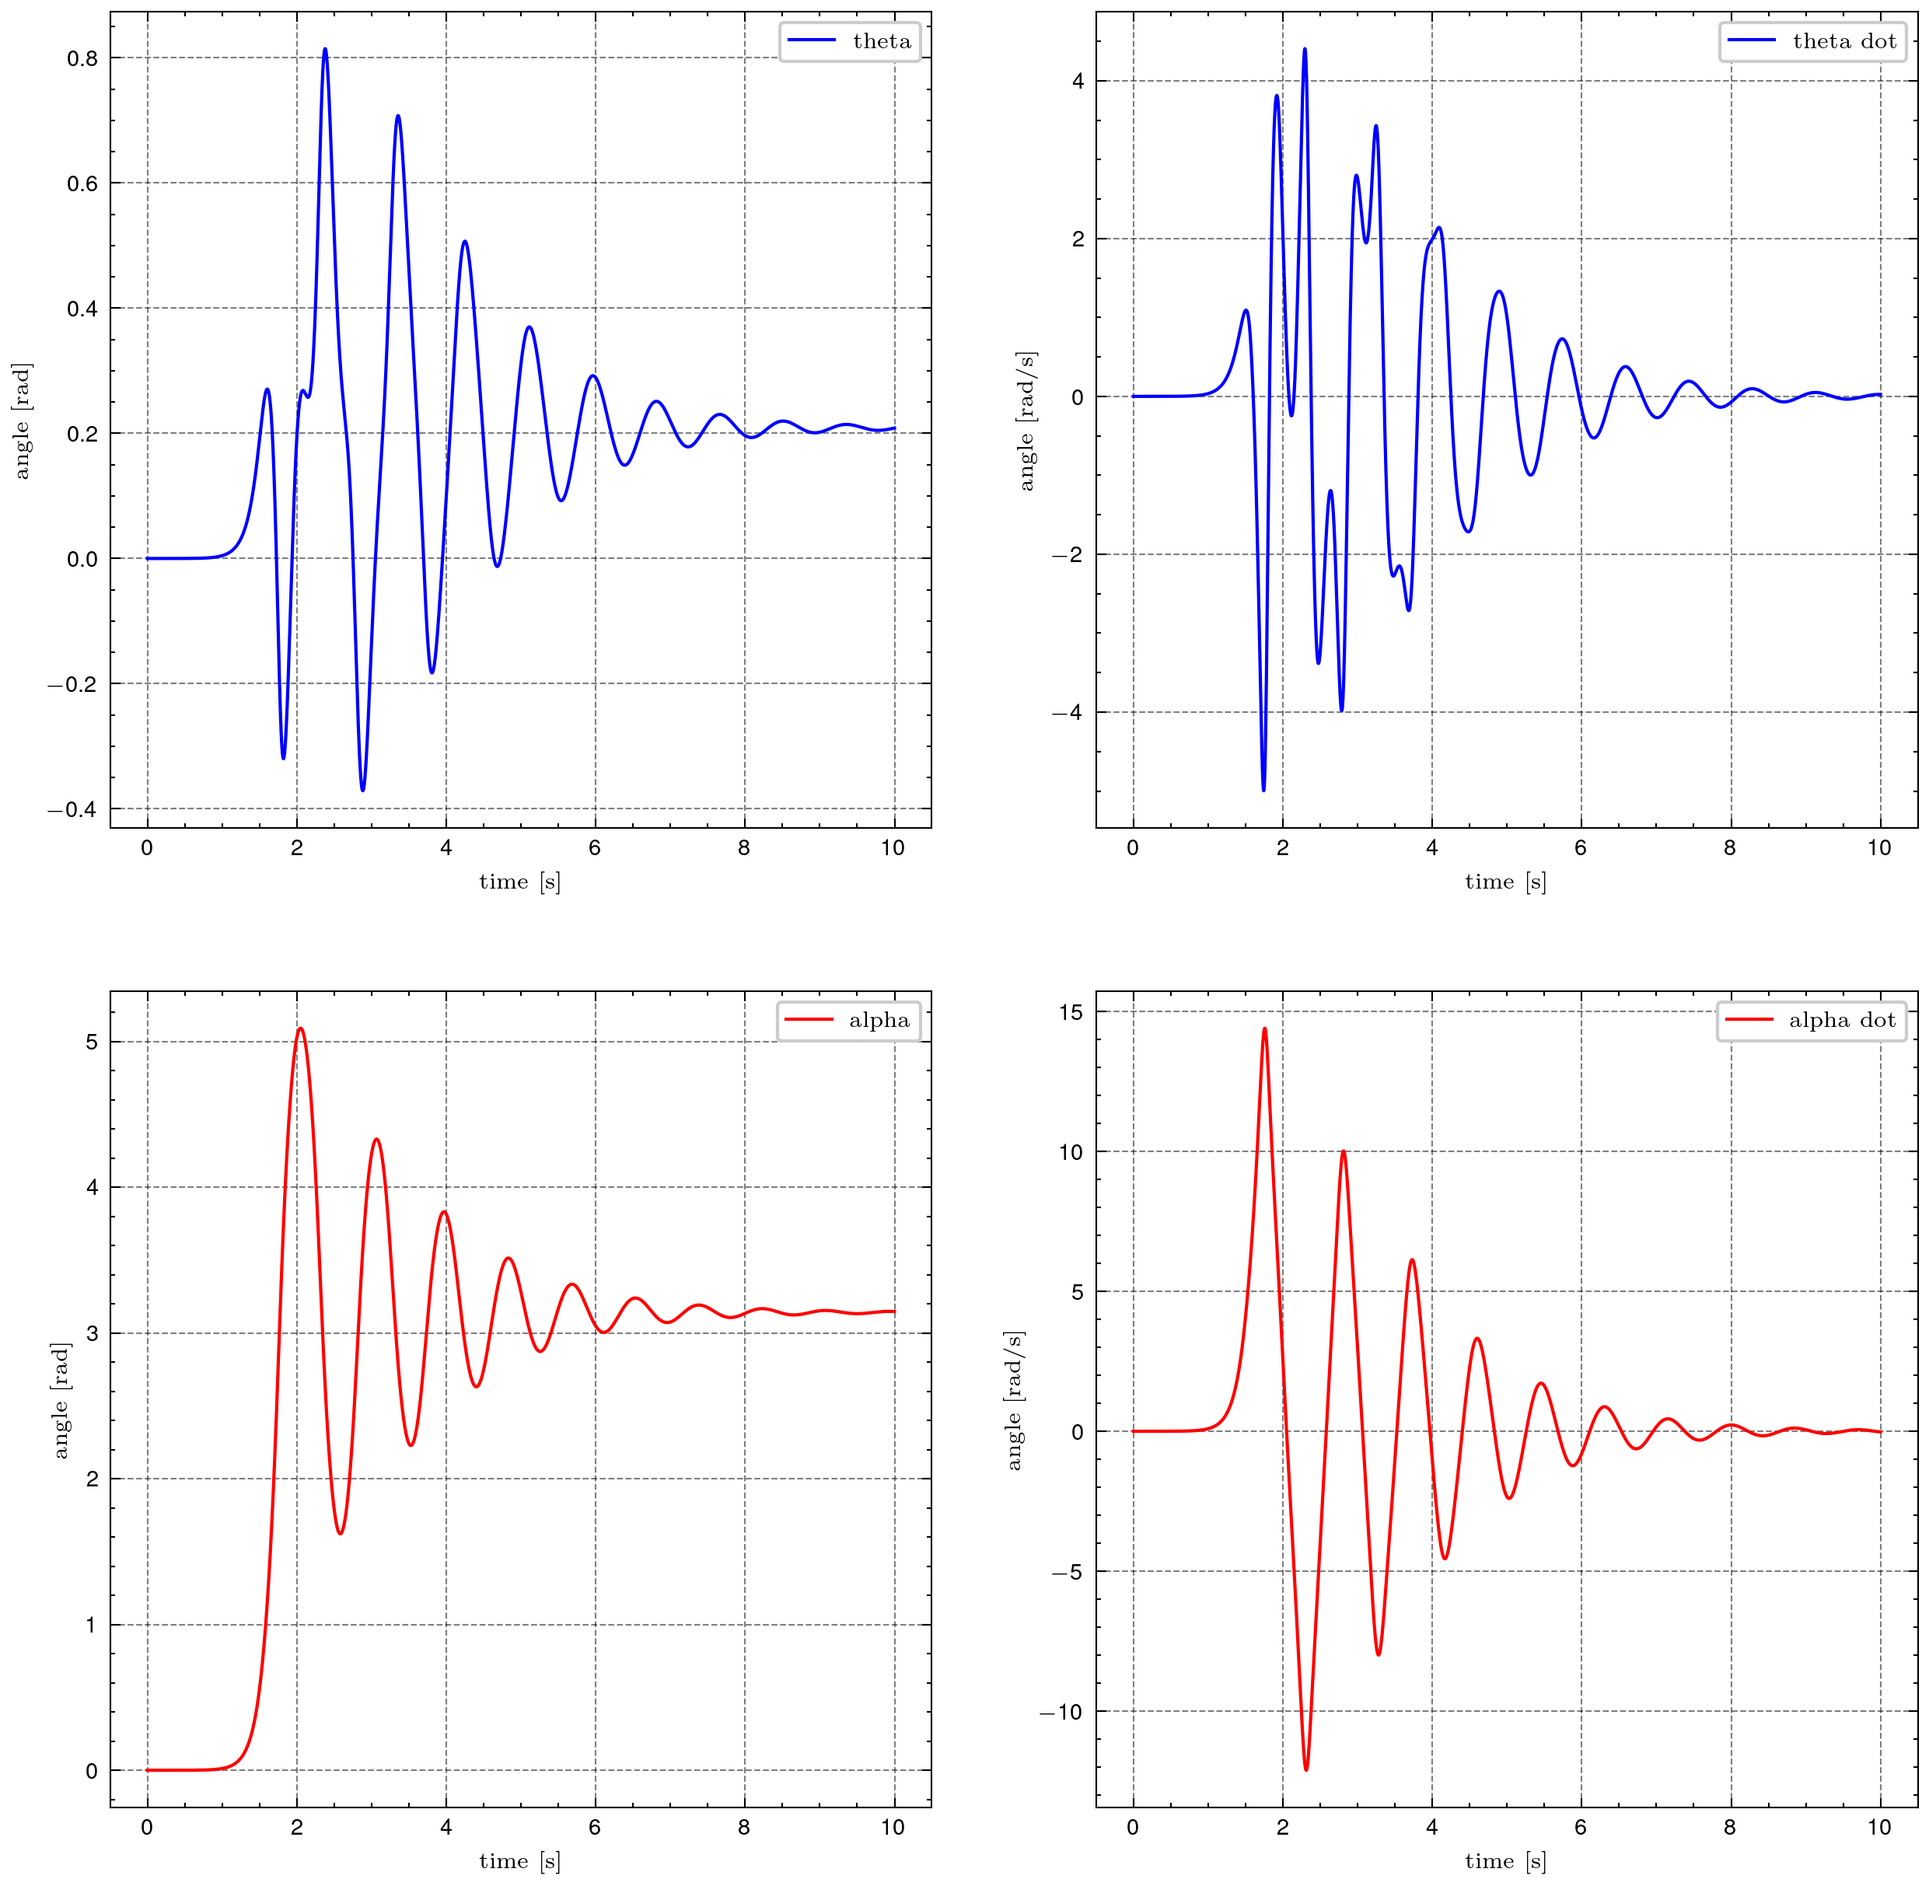
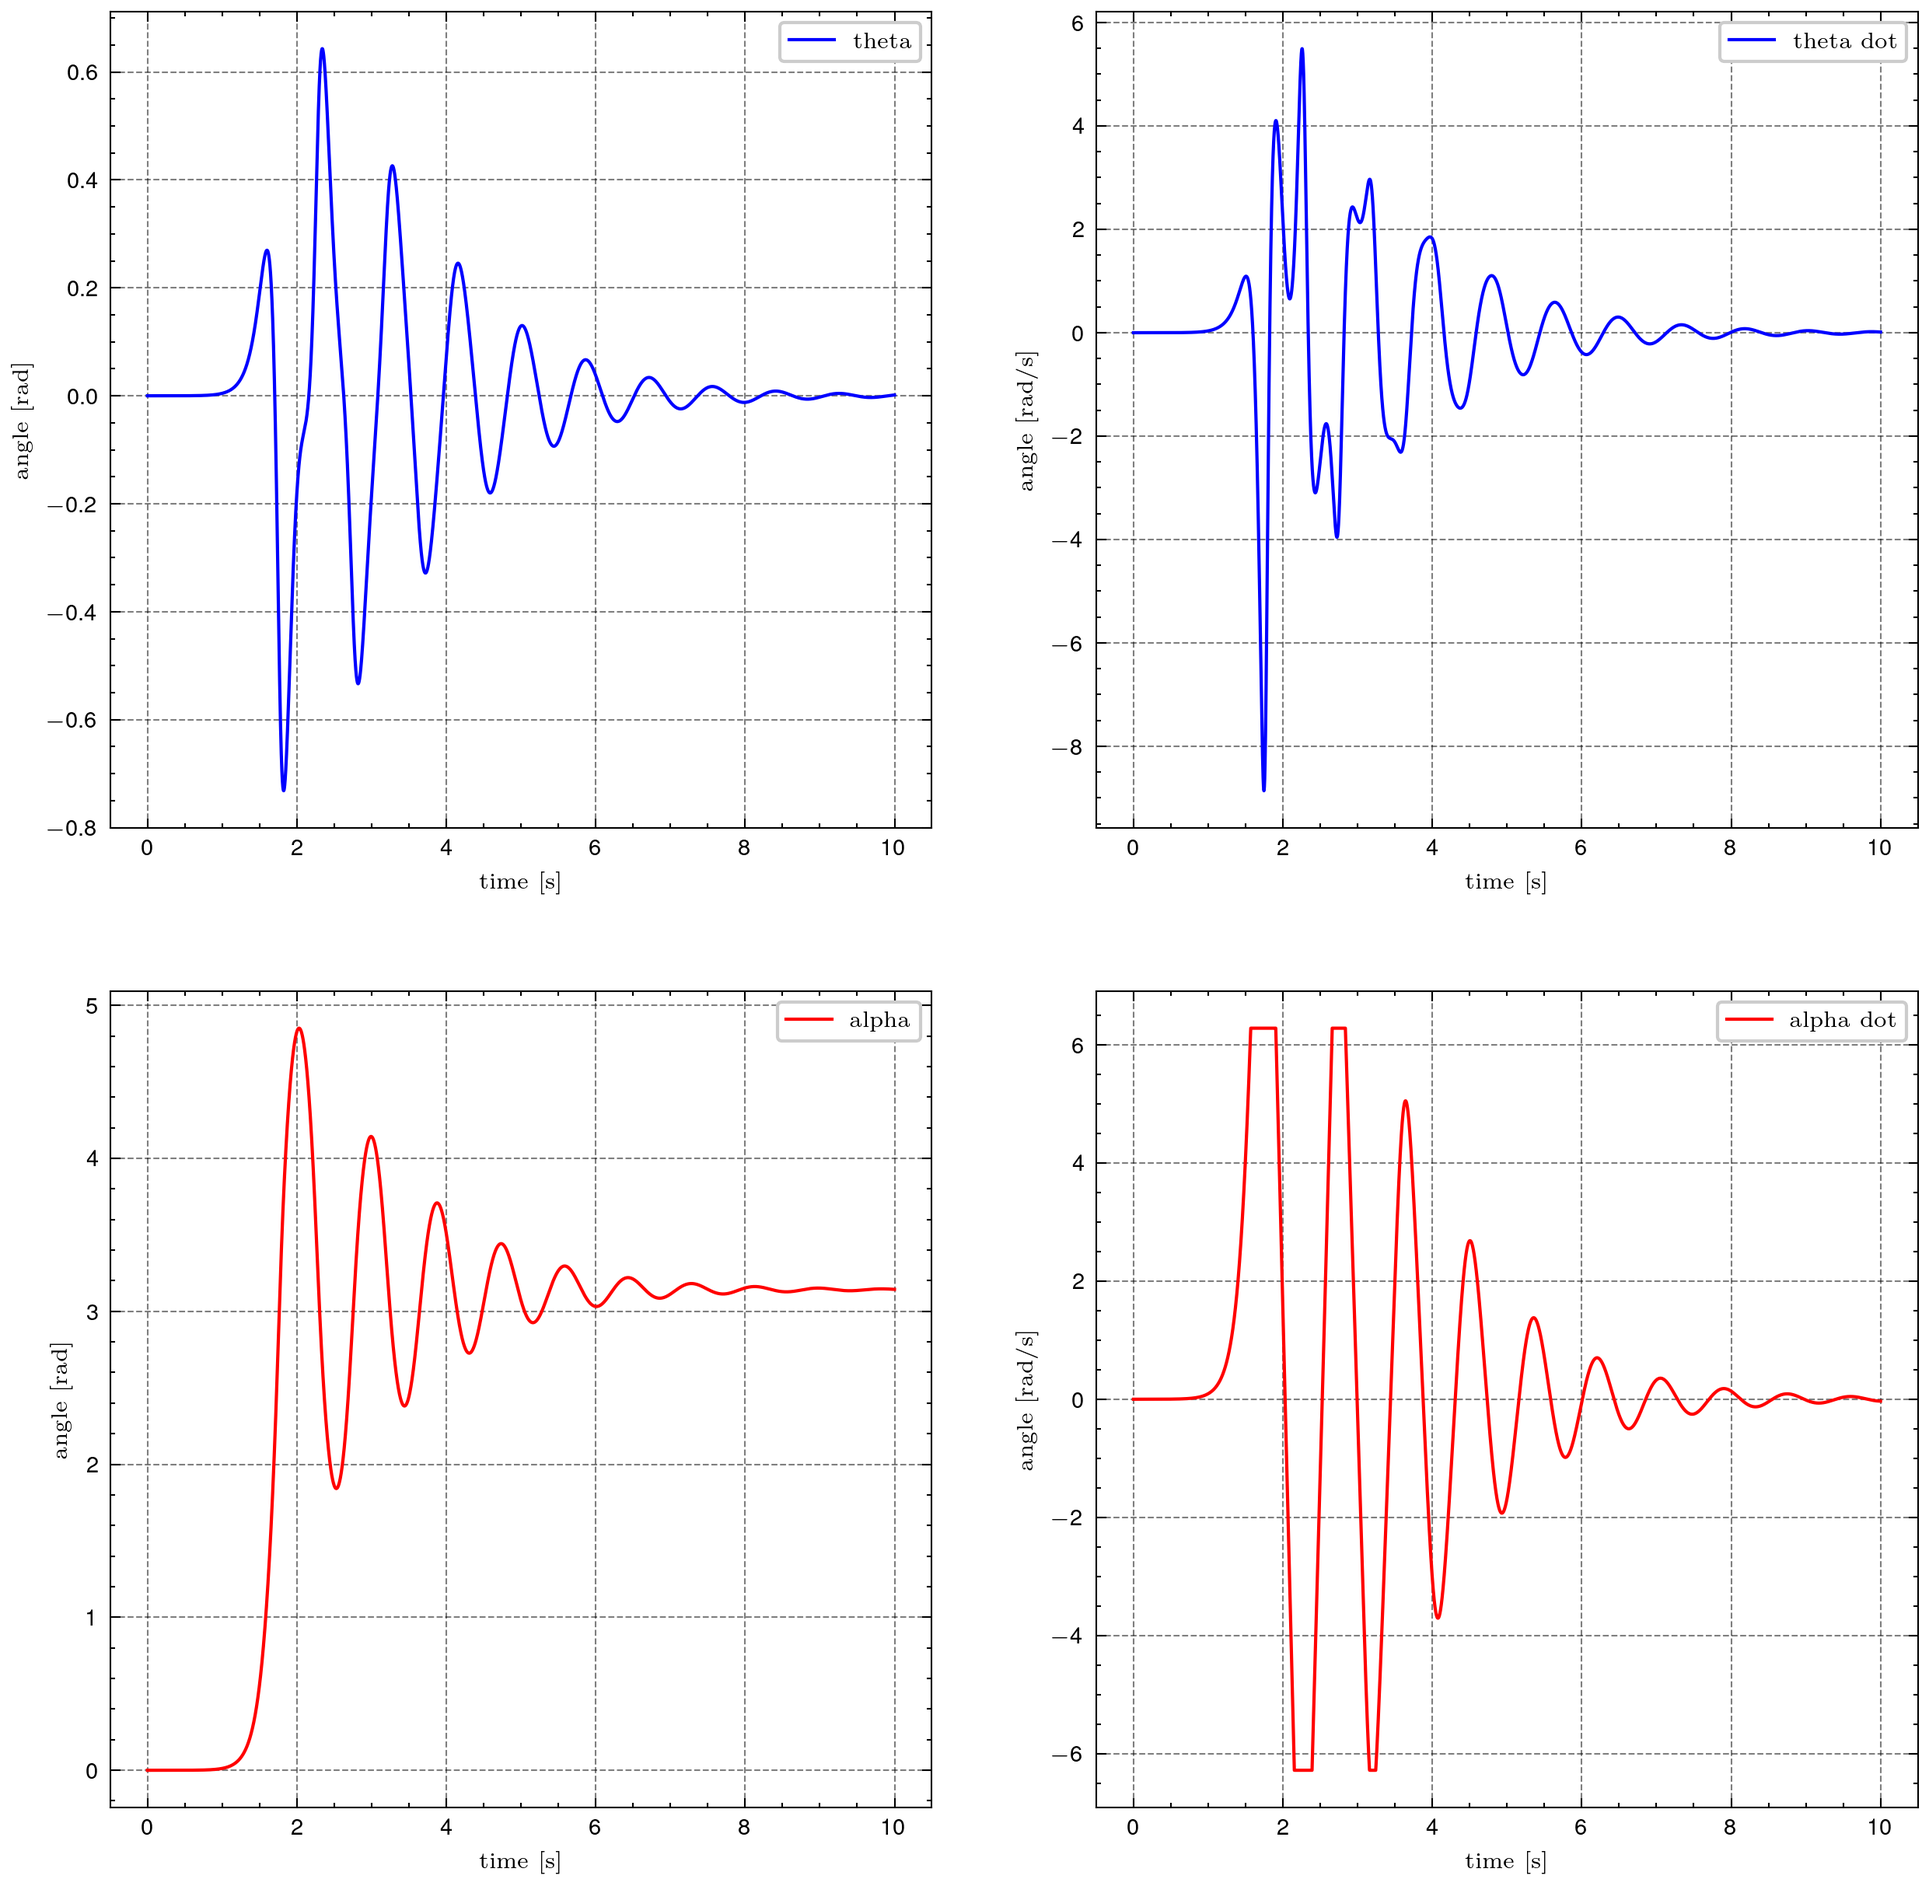
.

diff --git a/main.py b/main.py
@@ -49,7 +49,7 @@ u = np.array([
 
 for i in range(1, samples):
   alpha = x[1][0]
-  alpha_dot = np.clip(x[3][0], -6.2831775400855925, 6.2831775400855925)
+  alpha_dot = x[3][0]
 
   _A = A(alpha, alpha_dot)
 
@@ -57,7 +57,7 @@ for i in range(1, samples):
   x += delta_sys * simulation_step
 
   theta_values[i] = np.array([x[0], x[2]]).T
-  alpha_values[i] = np.array([x[1], x[3]]).T
+  alpha_values[i] = np.array([x[1], np.clip(x[3], -6.2831775400855925, 6.2831775400855925)]).T
 
 # saving the data
 np.save('nl_theta_values.npy', theta_values)
